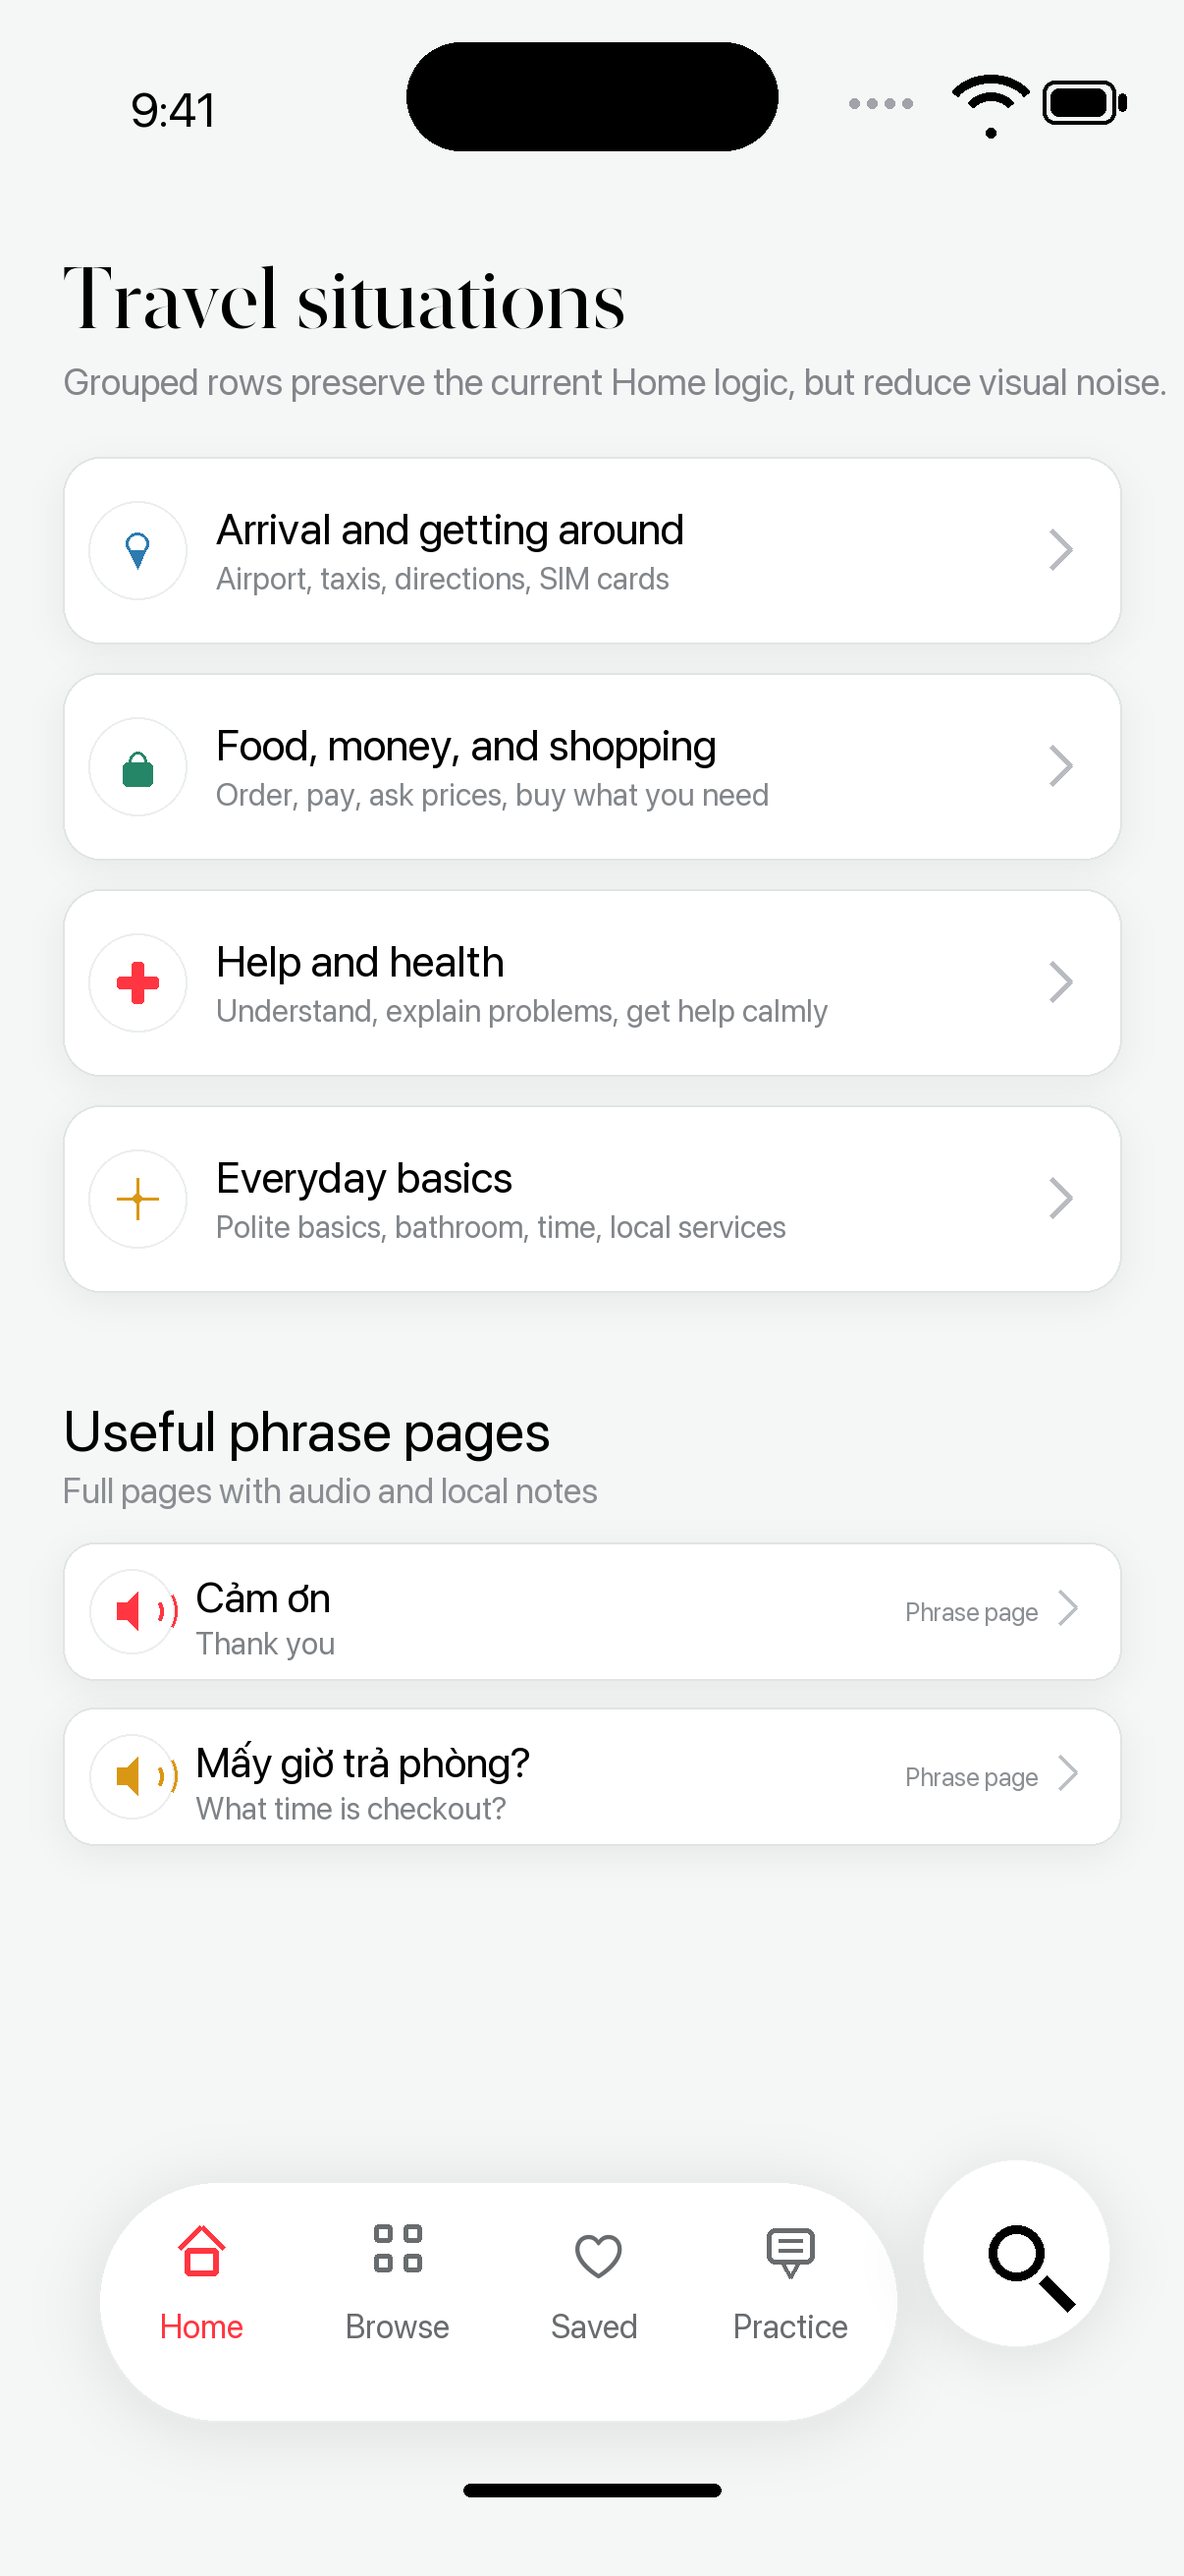
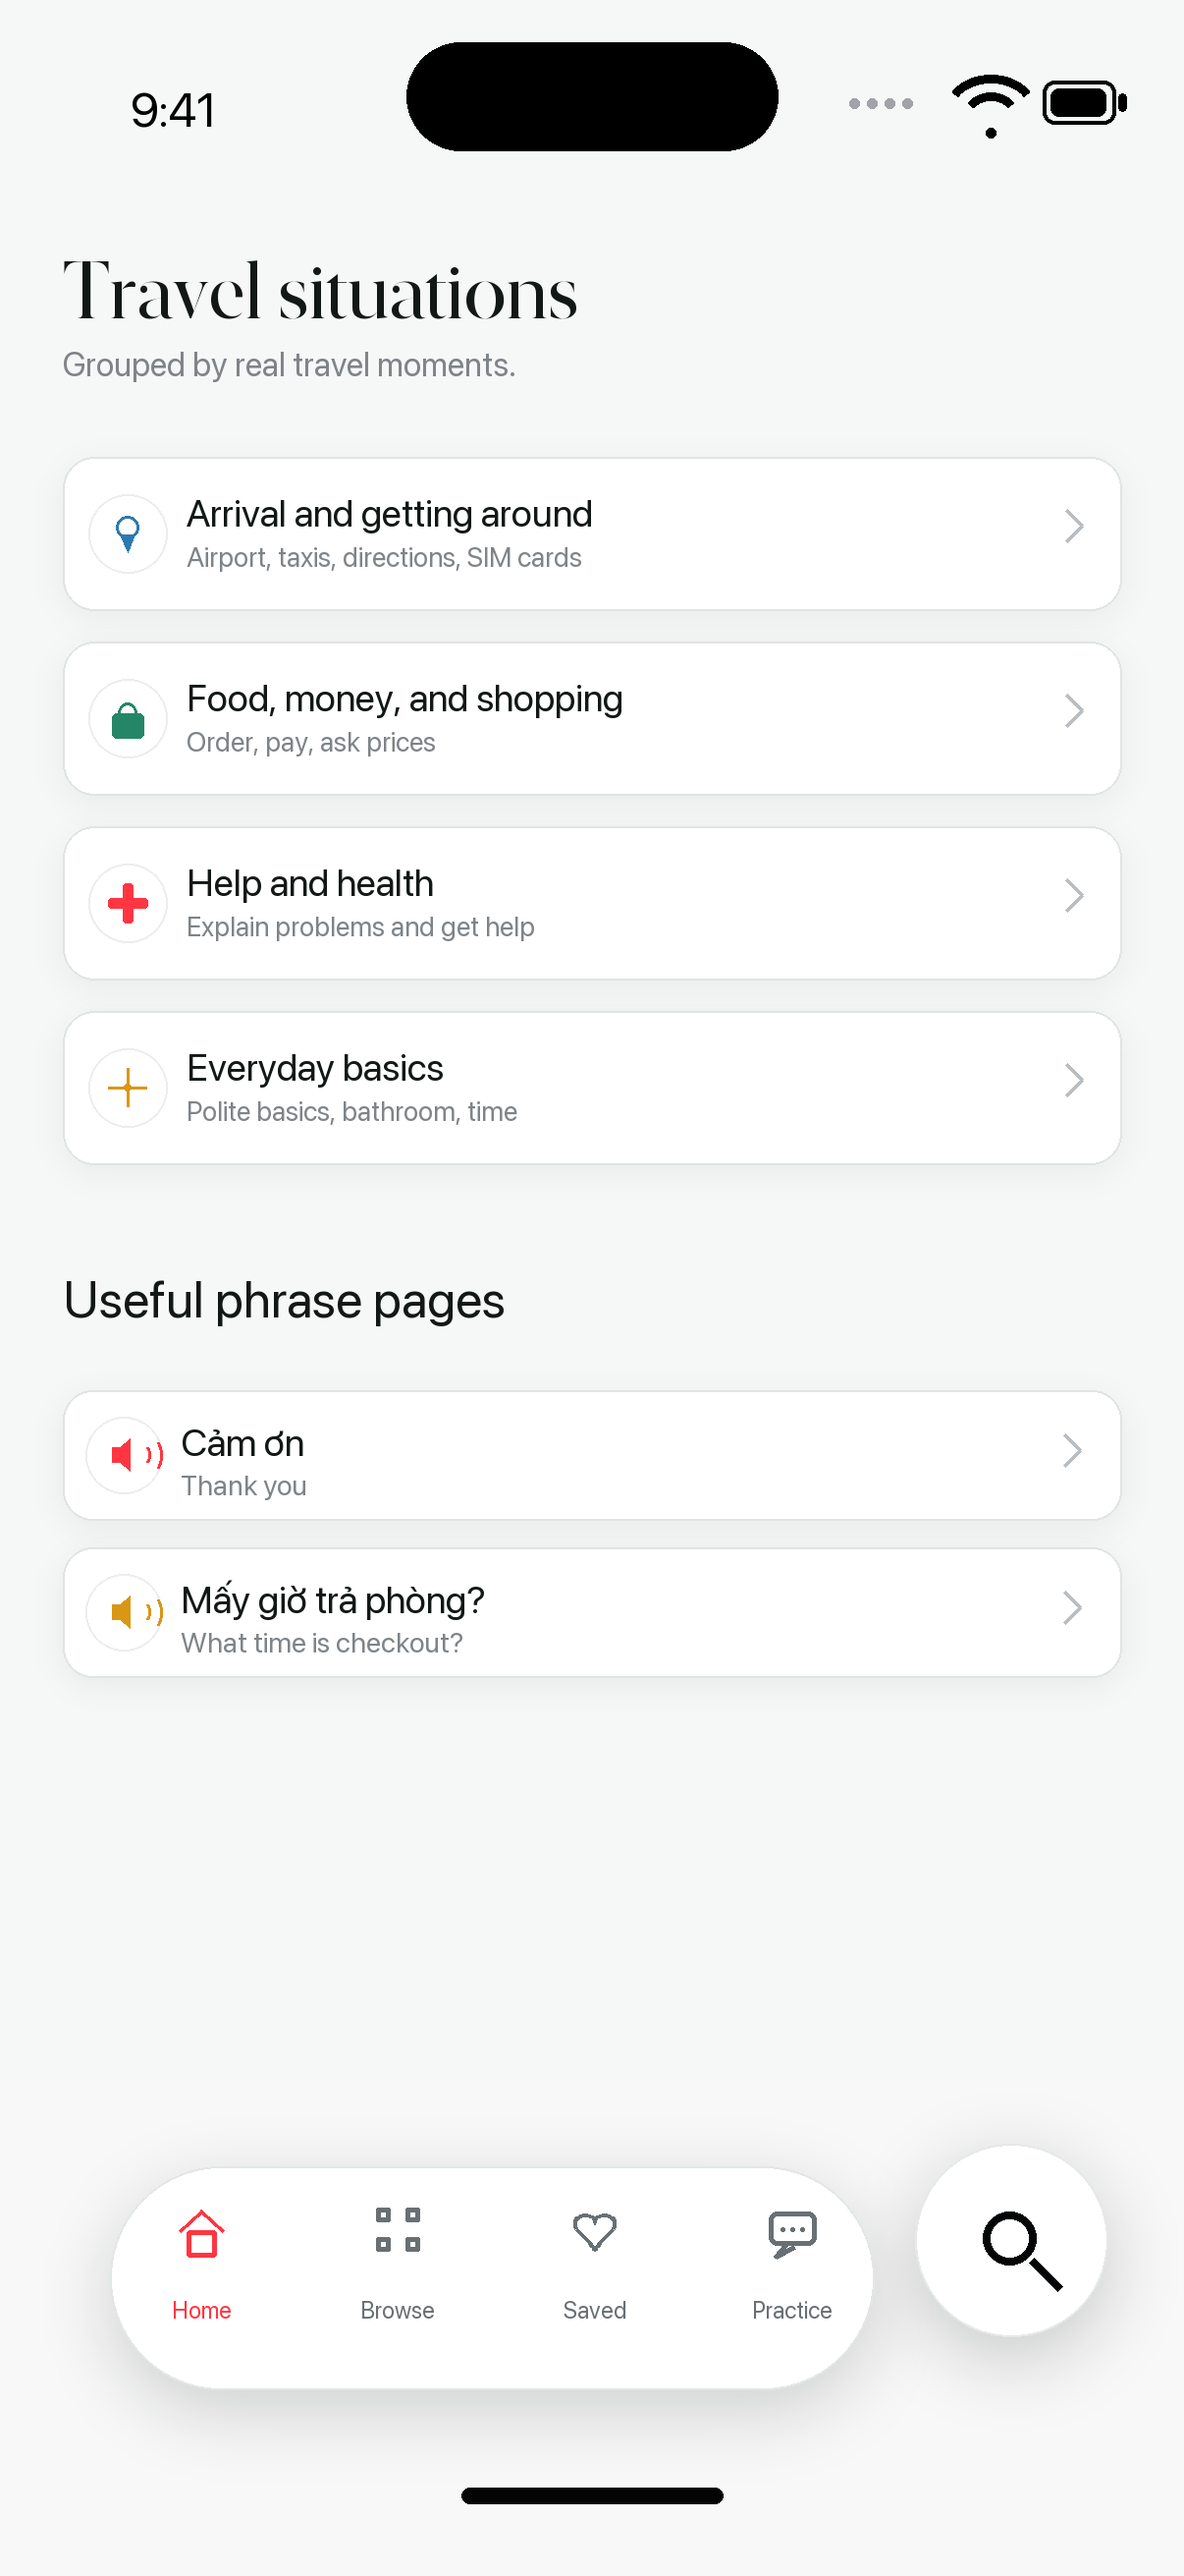
Refine homepage visual refresh packet

diff --git a/docs/design/homepage/visual-refresh-v1/index.html b/docs/design/homepage/visual-refresh-v1/index.html
@@ -3,7 +3,7 @@
 <head>
   <meta charset="utf-8">
   <meta name="viewport" content="width=device-width, initial-scale=1">
-  <title>SpeakLocal Vietnam Homepage Visual Refresh V1</title>
+  <title>SpeakLocal Vietnam Homepage Visual Refresh V2</title>
   <style>
     :root {
       color-scheme: light;
@@ -111,16 +111,16 @@
 <body>
   <main>
     <section class="hero">
-      <h1>Homepage Visual Refresh V1</h1>
-      <p>Native-style storyboard packet for SpeakLocal Vietnam. The recommendation is a Hybrid Utility Home: immediate phrases and Search first, image-led category/city discovery below, and returning-user shelves only after real local state exists.</p>
+      <h1>Homepage Visual Refresh V2</h1>
+      <p>Native-style storyboard packet for SpeakLocal Vietnam, revised from Jojo browser notes. The recommendation is a Cleaner Hybrid Utility Home: immediate phrases and Search first, image-led category/city discovery below, no implied-action labels, and returning-user shelves only after real local state exists.</p>
       <div class="recommendation">
-        <strong>Recommended direction:</strong> Direction 1 structure + Direction 2 image cards below essentials + Direction 3 modules only after saved, recent, or practice state exists.
+        <strong>Recommended direction:</strong> Direction 1 structure + Direction 2 image cards below essentials + Direction 3 modules only after saved, recent, or practice state exists. Cards should not explain actions already implied by speaker, chevron, image, or tab chrome.
       </div>
       <div class="pillrow">
         <span class="pill">Docs-only</span>
         <span class="pill">Native comps</span>
         <span class="pill">No Swift edits</span>
-        <span class="pill">No mascot-led Home</span>
+        <span class="pill">No implied labels</span>
       </div>
     </section>
 
@@ -128,11 +128,11 @@
     <div class="grid">
       <figure>
         <img src="assets/homepage-refresh-contact-sheet.png" alt="Homepage refresh recommendation contact sheet">
-        <figcaption>Contact sheet summarizing the recommended Hybrid Utility Home and the locked homepage rules.</figcaption>
+        <figcaption>Contact sheet summarizing the recommended Cleaner Hybrid Utility Home and the locked homepage rules.</figcaption>
       </figure>
       <figure>
         <img src="assets/current-issue-resolution.png" alt="Current homepage issue and redesign rule">
-        <figcaption>Current issue versus redesign rule for phrase-card audio and navigation hierarchy.</figcaption>
+        <figcaption>Cleanup rule for phrase-card audio, navigation hierarchy, and unnecessary card labels.</figcaption>
       </figure>
     </div>
 
@@ -140,7 +140,7 @@
     <div class="grid">
       <figure>
         <img src="assets/direction-1-conservative-native-refresh.png" alt="Direction 1 conservative native refresh storyboard">
-        <figcaption>Direction 1 keeps the current Home section logic and cleans card hierarchy, spacing, and audio/navigation affordances.</figcaption>
+        <figcaption>Direction 1 keeps the current Home section logic and removes labels that duplicate card, audio, or chevron behavior.</figcaption>
       </figure>
       <figure>
         <img src="assets/direction-2-image-led-travel-gateway.png" alt="Direction 2 image-led travel gateway storyboard">
@@ -166,7 +166,7 @@
     </div>
 
     <h2>Implementation Notes</h2>
-    <p>Phrase text and chevrons open canonical phrase pages. One red speaker button plays bundled audio. Image cards open Browse collection pages, not Search results. Keep the Home/admin dock and Search island stable while content scrolls underneath.</p>
+    <p>Phrase text and chevrons open canonical phrase pages. One red speaker button plays bundled audio. Image cards open Browse collection pages, not Search results. Avoid action/type tags inside cards unless the word adds meaning the title and subtitle cannot carry. Keep the Home/admin dock and Search island stable while content scrolls underneath.</p>
     <p>Supporting docs: <a href="README.md">README</a>, <a href="prompt-packet.md">prompt packet</a>, and <a href="peer-review.md">peer review</a>.</p>
   </main>
 </body>

diff --git a/docs/design/homepage/visual-refresh-v1/README.md b/docs/design/homepage/visual-refresh-v1/README.md
@@ -1,17 +1,32 @@
-# SpeakLocal Vietnam Homepage Visual Refresh V1
+# SpeakLocal Vietnam Homepage Visual Refresh V2
 
 Status: design packet for review
 Scope: visual/storyboard artifact only. No Swift, generated resources, SQLite, audio, or Xcode files were edited.
 
+## V2 Revision Notes
+
+This pass responds to Jojo browser annotations on the first packet:
+
+- Removed implied-action labels from user-facing cards. No `open`, `page`, `play`, `city`, or `category` tags inside cards.
+- Rebuilt the top Home comps around the live Home masthead crop so the Ha Long Bay image fades into content without a hard seam and the boat remains visible.
+- Kept Home as a phrasebook utility first: Search and useful phrases answer the immediate user need; travel imagery supports orientation below that.
+- Reworked the visual chrome composition to preserve the stable bottom admin/search relationship while avoiding copied playback-row artifacts.
+
+## Research Fold-In
+
+- Apple Liquid Glass guidance frames the material as a system-level refresh for controls and app interfaces; here that means chrome should feel layered and native while content remains readable: <https://developer.apple.com/documentation/TechnologyOverviews/liquid-glass>.
+- Apple UI design tips emphasize readable layouts, touch-ready controls, spacing, and keeping controls close to the content they affect: <https://developer.apple.com/design/tips/>.
+- NN/g's aesthetic and minimalist heuristic says extra information competes with relevant information; that is the rationale for removing implied labels like `Open page`, `Play`, and `Phrase page`: <https://www.nngroup.com/articles/ten-usability-heuristics/>.
+
 ## Recommendation
 
-Implement the **Hybrid Utility Home** direction first:
+Implement the **Cleaner Hybrid Utility Home** direction first:
 
 - Keep the first viewport focused on immediate utility: `Start speaking now`, the native Search card, and 3 to 5 playable starter phrases.
 - Add real image-led category and city cards just below the starter phrases so the homepage feels more travel-specific without becoming Browse.
 - Show Continue, Saved, Practice pool, and city-focus modules only after real local state exists. First launch should not show fake returning-user shelves.
 
-This combines the safest part of Direction 1, the visual lift of Direction 2, and the state discipline of Direction 3.
+This combines the safest part of Direction 1, the visual lift of Direction 2, and the state discipline of Direction 3 without adding labels that explain controls the user can already infer.
 
 ## Accepted Jojo Decisions
 
@@ -34,11 +49,11 @@ Open `index.html` for the local gallery.
 
 ## Direction Notes
 
-### Direction 1: Conservative Native Refresh
+### Direction 1: Cleaner Native Home
 
 Best for the lowest-risk native implementation. It keeps the current Home spine: masthead, Search, starter phrases, travel situations, relationship greetings, useful phrase pages, and Browse-all entry.
 
-The meaningful change is hierarchy. The phrase card no longer presents a decorative icon, a speaker, and a chevron as equally important controls. Category context becomes a small label. Audio becomes one red speaker button. Navigation is expressed by card text plus chevron.
+The meaningful change is hierarchy. The phrase card no longer presents a decorative icon, a speaker, text labels, and a chevron as equally important controls. Audio becomes one red speaker button. Navigation is expressed by card text plus chevron.
 
 ### Direction 2: Image-Led Travel Gateway
 
@@ -59,7 +74,8 @@ Recommended control model:
 - The phrase title/subtitle/card body opens the canonical phrase page.
 - The red speaker button plays bundled audio and appears only when audio exists.
 - The chevron reinforces navigation.
-- Tiny chips can label context such as `HELLO`, `POLITE`, `REPAIR`, `CITY`, or `CATEGORY`, but they are not controls.
+- Do not add implied-action or object-type tags such as `Open page`, `Phrase page`, `Play`, `City`, or `Category`.
+- If context labels are needed later, keep them out of first-viewport utility cards unless they add meaning the title/subtitle cannot carry.
 - Do not use a decorative speaker-like or category icon beside the real speaker button.
 
 ## Category And City Image Handling

diff --git a/docs/design/homepage/visual-refresh-v1/prompt-packet.md b/docs/design/homepage/visual-refresh-v1/prompt-packet.md
@@ -2,12 +2,15 @@
 
 This packet was produced as native-style composed mockups using current SpeakLocal screenshots, existing asset-catalog imagery, and local raster composition. These instructions are the reusable design prompt for future iterations or commissioned visuals.
 
+V2 update: Jojo's browser notes are now a hard prompt constraint. Do not add labels that merely name implied actions or object types. Speaker means audio. Chevron/card means navigation. Image plus title means a collection card.
+
 ## Source-Of-Truth Inputs
 
 - Read `docs/design/NATIVE_VISUAL_REFERENCE.md` first.
 - Use the locked 2026-05-01 Home/admin/search chrome references as the visual baseline.
 - Use existing native imagery from `native-ios/Resources/Assets.xcassets`.
 - Match the current SpeakLocal Vietnam feel: native iOS, Liquid Glass, large serif page title, soft white content surfaces, restrained Vietnam red/green/gold accents.
+- Use the live Home masthead/hero treatment as the first reference for any top-of-Home comp. Avoid a straight visible image cutoff; the image should fade naturally into clean content.
 
 ## Product Direction
 
@@ -30,6 +33,7 @@ Recommended first-launch hierarchy:
 - Use red only for primary actions and audio.
 - Use real or hyper-real category/city imagery, not abstract illustration.
 - Do not make Melo prominent on Home.
+- Do not label cards with implied action/type text such as `open`, `page`, `play`, `city`, or `category`.
 
 ## Phrase Card Rule
 
@@ -37,18 +41,18 @@ One phrase card must have one clear audio affordance and one clear navigation af
 
 - Red speaker button: plays bundled audio.
 - Card body/title plus chevron: opens the canonical phrase page.
-- Small label chip: category/status only, not a control.
+- No implied-action or object-type chips. Only add a small context label if it carries useful meaning the title/subtitle cannot carry.
 - Avoid placing a decorative icon next to the real speaker button.
 
 ## Direction Prompts
 
 ### Conservative Native Refresh
 
-Create a high-fidelity iPhone Home storyboard for SpeakLocal Vietnam. Keep the existing section logic, but clean the card hierarchy, spacing, and icon usage. Show top of Home, mid-page travel situations, and lower Home with bottom chrome. Phrase cards should have a small label chip, one red audio button, title/subtitle text, and a chevron.
+Create a high-fidelity iPhone Home storyboard for SpeakLocal Vietnam. Keep the existing section logic, but clean the card hierarchy, spacing, and icon usage. Show top of Home, mid-page travel situations, and lower Home with bottom chrome. Phrase cards should have one red audio button, title/subtitle text, and a chevron. Do not add implied-action labels.
 
 ### Image-Led Travel Gateway
 
-Create a high-fidelity iPhone Home storyboard where real image cards help users choose Hanoi, Hotel, Airport, Food, and Shopping Browse collections. The first viewport still has Search and useful phrases nearby. Image cards navigate to Browse collection pages; phrase cards remain the only cards with audio buttons.
+Create a high-fidelity iPhone Home storyboard where real image cards help users choose Hanoi, Hotel, Airport, Food, and Shopping Browse collections. The first viewport still has Search and useful phrases nearby. Image cards navigate to Browse collection pages; phrase cards remain the only cards with audio buttons. Image cards use title, subtitle, image, and chevron only.
 
 ### Personalized Utility Home
 

diff --git a/docs/design/homepage/visual-refresh-v1/peer-review.md b/docs/design/homepage/visual-refresh-v1/peer-review.md
@@ -1,26 +1,28 @@
 # Focused Peer Review
 
 Review date: 2026-05-03
-Scope: docs-only homepage visual refresh packet.
+Scope: docs-only homepage visual refresh packet, V2 revision after Jojo browser annotations.
 
 ## Checks
 
 | Area | Outcome |
 | --- | --- |
 | First-time traveler clarity | Pass. The recommended hybrid keeps Search and starter phrases in the first viewport and avoids fake returning-user shelves. |
-| Native iOS / Liquid Glass fit | Pass with note. The comps use the current masthead, white glass cards, stable bottom dock/search island, and restrained red/green accents. Native implementation should use real SwiftUI materials rather than copying the raster effects exactly. |
-| Reduced visual clutter | Pass. The core rule removes the competing decorative icon/audio/chevron stack from small phrase cards. |
+| Native iOS / Liquid Glass fit | Pass with note. The comps use the current masthead, white glass cards, stable bottom dock/search island relationship, and restrained red/green accents. Native implementation should use real SwiftUI materials and live app chrome rather than copying the raster effects exactly. |
+| Reduced visual clutter | Pass. The revision removes implied-action labels from cards and keeps speaker/chevron behavior implicit. |
 | Audio versus navigation behavior | Pass. Speaker is clearly audio-only; chevron/text/card area handles navigation. Image cards do not show audio controls. |
 | Category/city image handling | Pass. Image cards are Browse collection entry points and do not replace Search. |
 | Realistic SwiftUI implementation | Pass. Most changes map to existing Home sections plus card styling/order changes. The image cards can reuse Browse collection asset-catalog images. |
 | Mascot restraint | Pass. No mascot-led Home surface is recommended. |
+| Jojo annotations | Pass. V2 addresses the called-out tags, the hard hero image seam, and the rough copied-toolbar artifact. |
 
 ## Concerns Addressed
 
 - **Risk: image cards make Home too busy.** The packet recommends only a small image layer below essentials, not a full image grid as the lead.
 - **Risk: first launch feels empty without saved/recent/practice.** The recommended first-launch state uses essentials, Search, and trip discovery; returning shelves remain state-gated.
 - **Risk: speaker icons promise missing audio.** The implementation notes require speaker buttons only where bundled audio resolves.
+- **Risk: raster chrome still differs from live SwiftUI chrome.** The packet now treats the raster chrome as a visual composition reference only; native implementation should reuse the live bottom/admin/search chrome directly.
 
 ## Recommendation
 
-Proceed with a native implementation task for the Hybrid Utility Home. The implementation should start by refactoring phrase-card affordances, then add a small image-led Browse collection layer, and only then add returning-user module refinements.
+Proceed with a native implementation task for the Cleaner Hybrid Utility Home. The implementation should start by refactoring phrase-card affordances, then add a small image-led Browse collection layer, and only then add returning-user module refinements.
